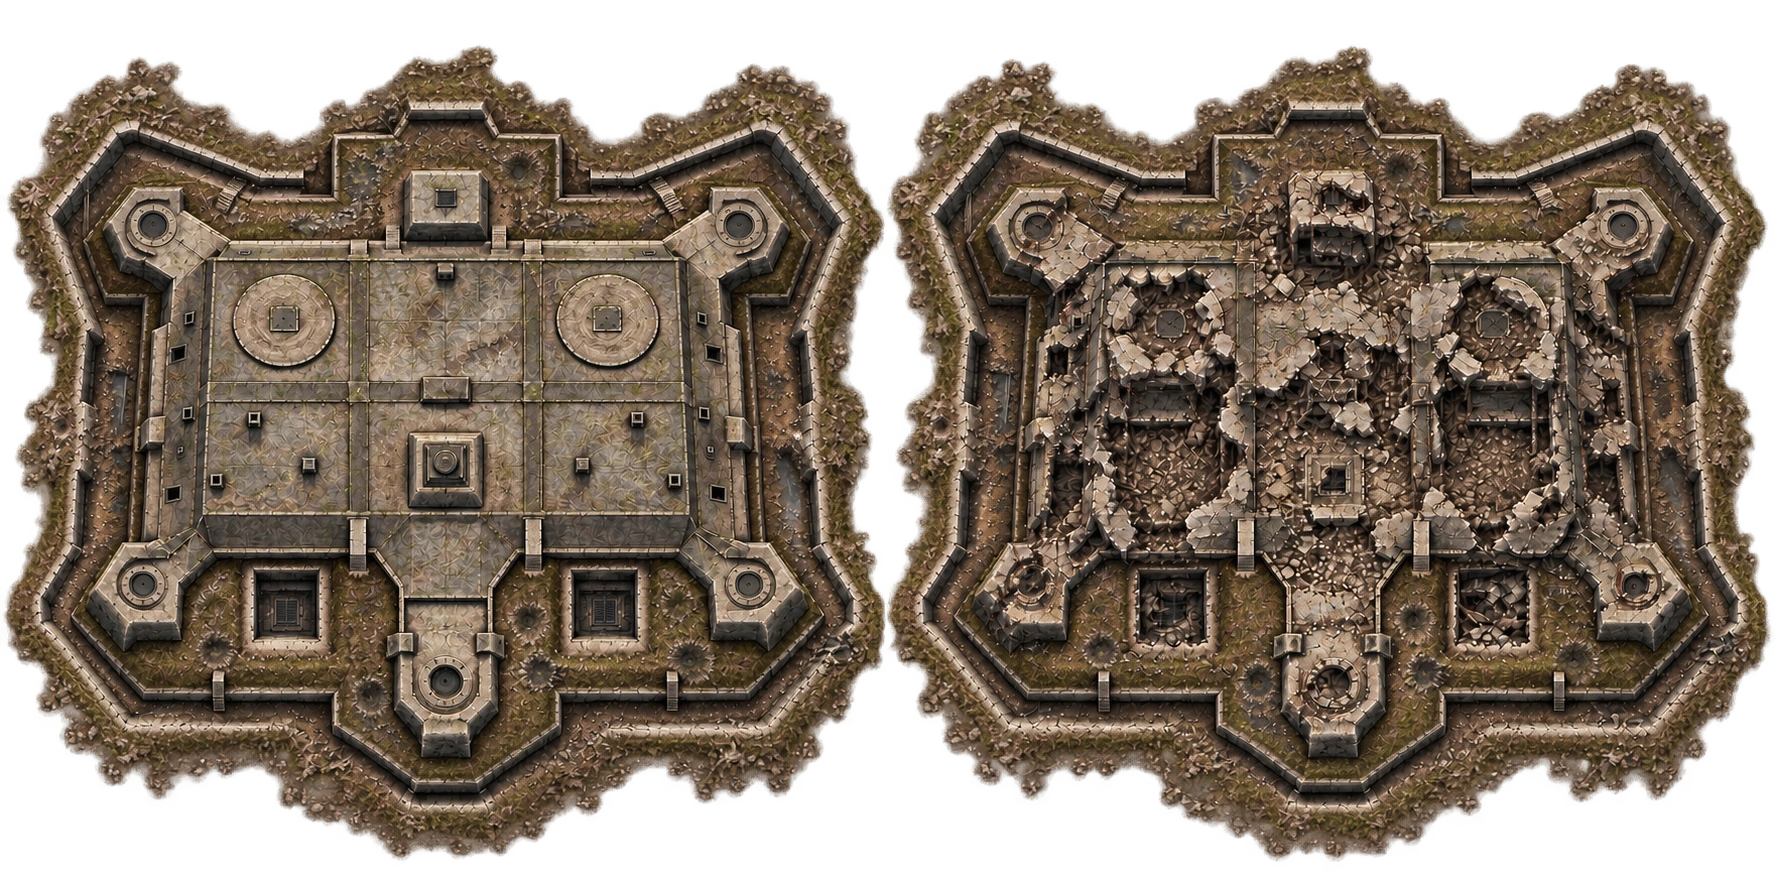
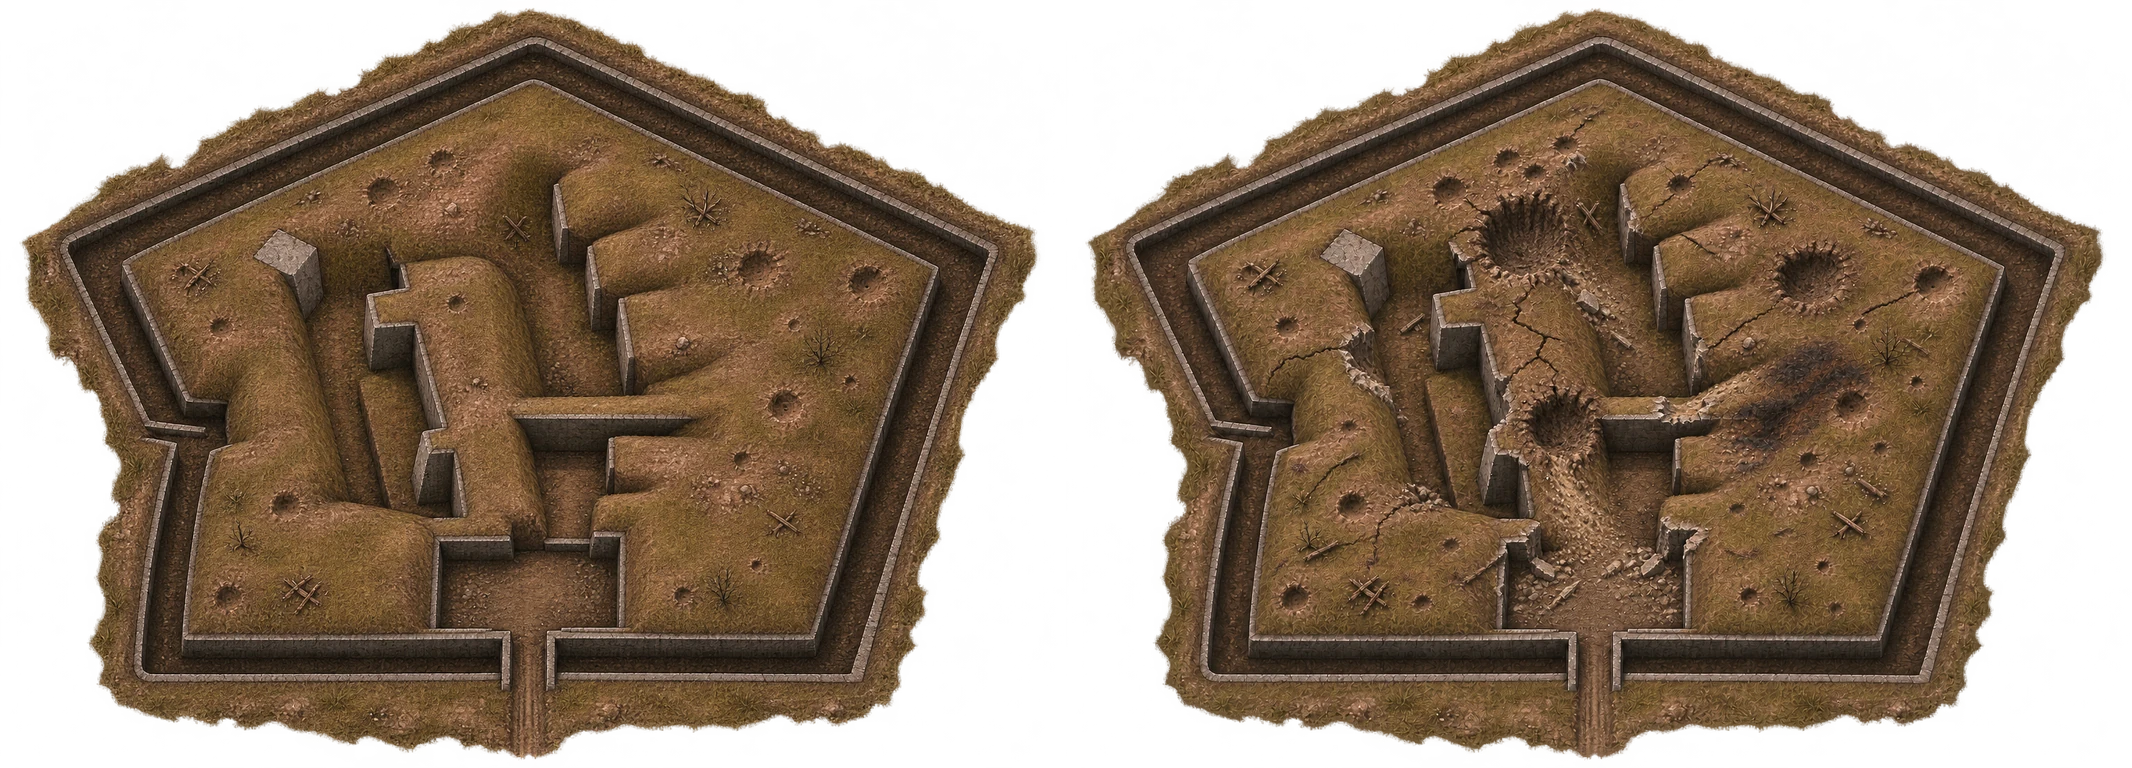
Preview Fort Douaumont rework (PR 679)

diff --git a/index.html b/index.html
@@ -1,4 +1,4 @@
-<!doctype html><html lang="ko"><head><script type="importmap">{"imports":{"/head-on-test-preview/alps-terrain117.js?v=quality-audit-596-c6ea4cf8-20261109":"/head-on-test-preview/alps-terrain117.js?v=burning-front-48624803-20261115","/head-on-test-preview/alps-terrain117.js":"/head-on-test-preview/alps-terrain117.js?v=burning-front-48624803-20261115","/head-on-test-preview/background-dressing.js?v=quality-audit-596-c6ea4cf8-20261109":"/head-on-test-preview/background-dressing.js?v=meadow-rail-e272e330-20261115","/head-on-test-preview/background-dressing.js":"/head-on-test-preview/background-dressing.js?v=meadow-rail-e272e330-20261115","/head-on-test-preview/rural-rail-ground.js?v=rail-exit-icon-c8bbf960-20261111":"/head-on-test-preview/rural-rail-ground.js?v=meadow-rail-e272e330-20261115","/head-on-test-preview/rural-rail-ground.js":"/head-on-test-preview/rural-rail-ground.js?v=meadow-rail-e272e330-20261115","/head-on-test-preview/rail-render129.js?v=rail-exit-icon-c8bbf960-20261111":"/head-on-test-preview/rail-render129.js?v=meadow-rail-e272e330-20261115","/head-on-test-preview/rail-render129.js":"/head-on-test-preview/rail-render129.js?v=meadow-rail-e272e330-20261115","/head-on-test-preview/app.js?v=pilot-sortie-9b529360-20261115":"/head-on-test-preview/app.js?v=pilot-sortie-9b529360-20261115"}}</script><meta charset="utf-8"><script src="boot-gate.js?v=earned-rewards-7ccfad1b-20261114"></script><script>fetch('version.txt',{cache:'no-store'}).then(r=>r.text()).then(v=>{if(v.trim()!=='pilot-sortie-9b529360-20261115'&&!sessionStorage.getItem('_vr')){sessionStorage.setItem('_vr','1');location.reload()}}).catch(()=>{});window.HEADON_COOP_RELAY='wss://headon-coop-relay.justzeon.workers.dev/coop'</script><meta name="viewport" content="width=device-width,initial-scale=1,viewport-fit=cover"><meta name="theme-color" content="#10171d"><title>HEAD-ON — 에이스의 하늘</title><link rel="icon" type="image/svg+xml" href="favicon.svg?v=gal1"><link rel="icon" type="image/png" sizes="32x32" href="favicon-32.png?v=gal1"><link rel="icon" type="image/png" sizes="64x64" href="favicon-64.png?v=gal1"><link rel="apple-touch-icon" href="favicon-180.png?v=gal1"><link rel="stylesheet" href="style.css?v=gal1"><link rel="stylesheet" href="interface58.css?v=gal1"><link rel="stylesheet" href="hangar69.css?v=gal1"><link rel="stylesheet" href="coop.css?v=gal1"><link rel="stylesheet" href="stageboss.css?v=gal1&hints=1"><link rel="stylesheet" href="result-names100.css"><link rel="stylesheet" href="./presentation129.css?v=gal1"><link rel="stylesheet" href="./mobile-ui142.css?v=gal1"><link rel="stylesheet" href="./reinforcement151.css?v=gal1"><link rel="stylesheet" href="./flight-polish156.css?v=gal1&front=a20261102"><link rel="stylesheet" href="./battlefield-event-ui.css?v=gal1"><link rel="stylesheet" href="./main-ui-v2.css?v=gal1&b=settings151"><link rel="stylesheet" href="./hangar-portrait186.css?v=gal1"><link rel="stylesheet" href="./hud-ww1-397.css?v=earned-rewards-7ccfad1b-20261114"><link rel="stylesheet" href="./hangar-ww1-403.css?v=gal1-set2&fit=20261110"><link rel="stylesheet" href="./skill-names.css?v=gal1&art=pilot-recovery2"><link rel="stylesheet" href="./ui-polish-410.css?v=choice-compact20261023d"><link rel="stylesheet" href="./lobby-420.css?v=lobby8&acecopy=2&resume=20261102&crew-floor=20261104&crew-scale=20261104"><link rel="stylesheet" href="online-coop.css?v=gal1&coop=1&cohud=2"><link rel="stylesheet" href="./settings-421.css?v=account-tab20261101&steady=20261110"><link rel="stylesheet" href="./boss-gate-422.css?v=g1"><link rel="stylesheet" href="./pilot-keyart.css?v=pilot-sortie-9b529360-20261115"><link rel="stylesheet" href="./ui-system-423.css?v=quality-audit-596-c6ea4cf8-20261109"><script>try{if(!/[?&]ui=0\b/.test(location.search))document.documentElement.classList.add("ui423")}catch(_){}</script></head><body class="astra-ui"><div id="bootSplash" aria-hidden="true"><b><i class="bl-h">HEAD</i><i class="bl-d">—</i><i class="bl-o">ON</i></b></div><script>window.HEADON_BOOT_ERROR=()=>{if(document.body.classList.contains('hangar-shown'))return;const splash=document.getElementById('bootSplash');if(!splash||document.getElementById('bootRetry'))return;splash.setAttribute('aria-hidden','false');const box=document.createElement('div');box.id='bootRetry';box.setAttribute('role','alert');box.style.cssText='position:absolute;left:20px;right:20px;bottom:15%;text-align:center;color:#e9e2ce;font:14px/1.6 Arial,sans-serif';const text=document.createElement('p');text.textContent=document.documentElement.lang==='en'?'The lobby is still loading. Please retry if this continues.':'로딩이 지연됐습니다.';const retry=document.createElement('button');retry.type='button';retry.textContent=document.documentElement.lang==='en'?'Retry':'다시 시도';retry.style.cssText='padding:12px 24px;border:1px solid #bdb69a;background:#171c1a;color:#e9e2ce;font:inherit';retry.onclick=()=>location.reload();box.append(text,retry);splash.append(box)};setTimeout(window.HEADON_BOOT_ERROR,90000)</script>
+<!doctype html><html lang="ko"><head><script type="importmap">{"imports":{"/head-on-test-preview/alps-terrain117.js?v=quality-audit-596-c6ea4cf8-20261109":"/head-on-test-preview/alps-terrain117.js?v=burning-front-48624803-20261115","/head-on-test-preview/alps-terrain117.js":"/head-on-test-preview/alps-terrain117.js?v=burning-front-48624803-20261115","/head-on-test-preview/background-dressing.js?v=quality-audit-596-c6ea4cf8-20261109":"/head-on-test-preview/background-dressing.js?v=meadow-rail-e272e330-20261115","/head-on-test-preview/background-dressing.js":"/head-on-test-preview/background-dressing.js?v=meadow-rail-e272e330-20261115","/head-on-test-preview/rural-rail-ground.js?v=rail-exit-icon-c8bbf960-20261111":"/head-on-test-preview/rural-rail-ground.js?v=meadow-rail-e272e330-20261115","/head-on-test-preview/rural-rail-ground.js":"/head-on-test-preview/rural-rail-ground.js?v=meadow-rail-e272e330-20261115","/head-on-test-preview/rail-render129.js?v=rail-exit-icon-c8bbf960-20261111":"/head-on-test-preview/rail-render129.js?v=meadow-rail-e272e330-20261115","/head-on-test-preview/rail-render129.js":"/head-on-test-preview/rail-render129.js?v=meadow-rail-e272e330-20261115","/head-on-test-preview/app.js?v=pilot-sortie-9b529360-20261115":"/head-on-test-preview/app.js?v=pilot-sortie-9b529360-20261115","/head-on-test-preview/verdun-art.js":"/head-on-test-preview/verdun-art.js?v=douaumont1916","/head-on-test-preview/verdun-fortresses.js":"/head-on-test-preview/verdun-fortresses.js?v=douaumont1916","/head-on-test-preview/boss-cutin-art.js":"/head-on-test-preview/boss-cutin-art.js?v=douaumont1916","/head-on-test-preview/boss-cutin-art.js?v=late-open-prs-5900a138-20261113":"/head-on-test-preview/boss-cutin-art.js?v=douaumont1916","/head-on-test-preview/verdun-art.js?v=late-open-prs-5900a138-20261113":"/head-on-test-preview/verdun-art.js?v=douaumont1916","/head-on-test-preview/verdun-fortresses.js?v=late-open-prs-5900a138-20261113":"/head-on-test-preview/verdun-fortresses.js?v=douaumont1916","/head-on-test-preview/verdun-fortresses.js?v=gal1&rail=42&ai=1018&sig=1019&boss=20261020b&phase=1021":"/head-on-test-preview/verdun-fortresses.js?v=douaumont1916"}}</script><meta charset="utf-8"><script src="boot-gate.js?v=earned-rewards-7ccfad1b-20261114"></script><script>fetch('version.txt',{cache:'no-store'}).then(r=>r.text()).then(v=>{if(v.trim()!=='pilot-sortie-9b529360-20261115'&&!sessionStorage.getItem('_vr')){sessionStorage.setItem('_vr','1');location.reload()}}).catch(()=>{});window.HEADON_COOP_RELAY='wss://headon-coop-relay.justzeon.workers.dev/coop'</script><meta name="viewport" content="width=device-width,initial-scale=1,viewport-fit=cover"><meta name="theme-color" content="#10171d"><title>HEAD-ON — 에이스의 하늘</title><link rel="icon" type="image/svg+xml" href="favicon.svg?v=gal1"><link rel="icon" type="image/png" sizes="32x32" href="favicon-32.png?v=gal1"><link rel="icon" type="image/png" sizes="64x64" href="favicon-64.png?v=gal1"><link rel="apple-touch-icon" href="favicon-180.png?v=gal1"><link rel="stylesheet" href="style.css?v=gal1"><link rel="stylesheet" href="interface58.css?v=gal1"><link rel="stylesheet" href="hangar69.css?v=gal1"><link rel="stylesheet" href="coop.css?v=gal1"><link rel="stylesheet" href="stageboss.css?v=gal1&hints=1"><link rel="stylesheet" href="result-names100.css"><link rel="stylesheet" href="./presentation129.css?v=gal1"><link rel="stylesheet" href="./mobile-ui142.css?v=gal1"><link rel="stylesheet" href="./reinforcement151.css?v=gal1"><link rel="stylesheet" href="./flight-polish156.css?v=gal1&front=a20261102"><link rel="stylesheet" href="./battlefield-event-ui.css?v=gal1"><link rel="stylesheet" href="./main-ui-v2.css?v=gal1&b=settings151"><link rel="stylesheet" href="./hangar-portrait186.css?v=gal1"><link rel="stylesheet" href="./hud-ww1-397.css?v=earned-rewards-7ccfad1b-20261114"><link rel="stylesheet" href="./hangar-ww1-403.css?v=gal1-set2&fit=20261110"><link rel="stylesheet" href="./skill-names.css?v=gal1&art=pilot-recovery2"><link rel="stylesheet" href="./ui-polish-410.css?v=choice-compact20261023d"><link rel="stylesheet" href="./lobby-420.css?v=lobby8&acecopy=2&resume=20261102&crew-floor=20261104&crew-scale=20261104"><link rel="stylesheet" href="online-coop.css?v=gal1&coop=1&cohud=2"><link rel="stylesheet" href="./settings-421.css?v=account-tab20261101&steady=20261110"><link rel="stylesheet" href="./boss-gate-422.css?v=g1"><link rel="stylesheet" href="./pilot-keyart.css?v=pilot-sortie-9b529360-20261115"><link rel="stylesheet" href="./ui-system-423.css?v=quality-audit-596-c6ea4cf8-20261109"><script>try{if(!/[?&]ui=0\b/.test(location.search))document.documentElement.classList.add("ui423")}catch(_){}</script></head><body class="astra-ui"><div id="bootSplash" aria-hidden="true"><b><i class="bl-h">HEAD</i><i class="bl-d">—</i><i class="bl-o">ON</i></b></div><script>window.HEADON_BOOT_ERROR=()=>{if(document.body.classList.contains('hangar-shown'))return;const splash=document.getElementById('bootSplash');if(!splash||document.getElementById('bootRetry'))return;splash.setAttribute('aria-hidden','false');const box=document.createElement('div');box.id='bootRetry';box.setAttribute('role','alert');box.style.cssText='position:absolute;left:20px;right:20px;bottom:15%;text-align:center;color:#e9e2ce;font:14px/1.6 Arial,sans-serif';const text=document.createElement('p');text.textContent=document.documentElement.lang==='en'?'The lobby is still loading. Please retry if this continues.':'로딩이 지연됐습니다.';const retry=document.createElement('button');retry.type='button';retry.textContent=document.documentElement.lang==='en'?'Retry':'다시 시도';retry.style.cssText='padding:12px 24px;border:1px solid #bdb69a;background:#171c1a;color:#e9e2ce;font:inherit';retry.onclick=()=>location.reload();box.append(text,retry);splash.append(box)};setTimeout(window.HEADON_BOOT_ERROR,90000)</script>
 
 <header><a class="brand" href="./"><span class="brand-mark" aria-label="HEAD-ON"><span class="wordmark" aria-hidden="true">HEAD<span class="logo-dash">—</span><span class="sight-o"><i></i></span>N</span></span> <span class="edition">에이스의 하늘</span></a><div class="header-right"><span class="campaign">FLIGHT OPERATIONS / WWI</span><label for="localeSelect"><span class="sr-only" data-i18n="language.label">언어</span><select id="localeSelect" aria-label="언어"><option value="ko">KO</option><option value="en">EN</option></select></label><button id="sound" class="quiet" aria-label="소리 끄기">소리 ON</button><button id="help" class="quiet">조작법</button></div></header>
 <main><section class="field"><div class="field-top"><span><i></i> <b id="missionLabel">출격 대기</b></span><span id="record">최고 기록 000</span></div><div class="viewport" id="viewport"><canvas id="game" aria-label="공중전 전장. 방향키 또는 WASD로 조종, Space로 선회 기동, E로 액티브, P로 일시정지"></canvas><div class="vignette"></div><section id="stageBossHud" class="hidden" role="progressbar" aria-label="지역 보스 내구도" aria-valuemin="0"><span id="stageBossTitle"></span><span id="stageBossParts"></span><div class="bar"><i id="stageBossHp"></i></div></section><div id="coopXpHud" class="hidden"><div><span id="p1XpLabel"></span><div class="bar"><i id="p1XpBar"></i></div></div><div><span id="p2XpLabel"></span><div class="bar"><i id="p2XpBar"></i></div></div></div><div id="coopP2" class="hidden"><small>P2</small><div class="bar"><i id="coopP2Hp"></i></div><b id="coopP2Text">0</b></div><div id="coopHud" class="coop-hud hidden"><section class="coop-instrument p1"><strong id="p1HudName"></strong><canvas id="p1Gun113" class="coop-gun113" width="72" height="44"></canvas><div id="p1HudStats" style="white-space:pre-line"></div><div class="bar"><i id="p1HpBar"></i></div><div id="p1Relics" class="relics" aria-label="P1 특수장비"></div></section><div class="coop-team"><b id="coopClock">00:00</b><span id="coopKills">주요 0기</span><br><small id="coopBest"></small><br><button id="coopPause" type="button">Ⅱ Esc</button></div><section class="coop-instrument p2"><strong id="p2HudName"></strong><canvas id="p2Gun113" class="coop-gun113" width="72" height="44"></canvas><div id="p2HudStats" style="white-space:pre-line"></div><div class="bar"><i id="p2HpBar"></i></div><div id="p2Relics" class="relics" aria-label="P2 특수장비"></div></section></div><div id="coopCutins" class="coop-cutins hidden"><div id="p1Cutin" class="skill-cutin coop-cutin hidden"><div id="p1CutinPortrait" class="cutin-portrait" aria-hidden="true"></div><div class="cutin-caption"><small id="p1CutinName"></small><strong id="p1CutinSkill"></strong></div></div><div id="p2Cutin" class="skill-cutin coop-cutin p2 hidden"><div id="p2CutinPortrait" class="cutin-portrait" aria-hidden="true"></div><div class="cutin-caption"><small id="p2CutinName"></small><strong id="p2CutinSkill"></strong></div></div></div><div id="hud" class="hud hidden"><div><small>HP</small><b id="healthText">100 / 100</b><div class="bar"><i id="healthBar"></i></div></div><div class="time"><b id="clock">00:00</b><small>랭킹전</small></div></div><div id="xpHud" class="xp-hud hidden"><span id="level">LV. 1</span><div class="bar"><i id="xpBar"></i></div><button id="pause" class="quiet">Ⅱ</button></div>

diff --git a/verdun-art.js b/verdun-art.js
@@ -8,7 +8,7 @@ import {VERDUN_PART_FRAMES,VERDUN_BODY_GRID} from './verdun-art-layout.js?v=tame
 import {VERDUN_FORT_LAYOUT,VERDUN_FORT_ENLARGEMENT,verdunFortCollapseSites} from './verdun-fortresses.js?v=gal1&rail=42&ai=1018&sig=1019&boss=20261020b&phase=1021';
 
 // Authored atlas frames keep measured pivots; component transition canvases are reused.
-const sources={map:'./terrain-verdun-r8.webp?v=r5',douaumont:'./boss-douaumont-atlas-r8.webp?v=r5',souville:'./boss-souville-atlas-r8.webp?v=r5',douaumontParts:'./boss-douaumont-parts-r8.webp?v=r5',souvilleParts:'./boss-souville-parts-r8.webp?v=r5'};
+const sources={map:'./terrain-verdun-r8.webp?v=r5',douaumont:'./boss-douaumont-atlas-r8.webp?v=douaumont1916',souville:'./boss-souville-atlas-r8.webp?v=r5',douaumontParts:'./boss-douaumont-parts-r8.webp?v=douaumont1916',souvilleParts:'./boss-souville-parts-r8.webp?v=r5'};
 const images={},pending={};
 function load(key){if(images[key])return images[key];const im=new Image();im.decoding='async';pending[key]=new Promise((resolve,reject)=>{im.onload=()=>{(im.decode?im.decode():Promise.resolve()).catch(()=>{}).finally(()=>resolve(im))};im.onerror=()=>reject(new Error('Missing Verdun asset: '+sources[key]));});im.src=sources[key];images[key]=im;return im;}
 export function prepareVerdunAssets(){for(const key of Object.keys(sources))load(key);return Promise.all(Object.values(pending)).then(result=>{prepareVerdunGround(images.map);return result;});}
@@ -70,8 +70,12 @@ export function drawVerdunFort(c,b,destruction={}){
   const structuralFall=collapsed||b.dead&&fallen.has(p.id),dead=structuralFall||p.destroyed,damaged=p.hp<p.maxHp*.55;
   const artSou=sou&&p.kind!=='aa',artKey=artSou?'souville':'douaumont',partImage=p.kind==='aa'&&sou?load('douaumontParts'):parts;
   const gun=!!VERDUN_PART_FRAMES[artKey].guns[p.art];
+  const cupola=!sou&&(p.kind==='heavy'||p.kind==='mg');
   const opens=['pit','ammo','core'].includes(p.art);
   const state=artSou?(dead?3:damaged?2:opens&&p.revealed?1:0):(dead?2:damaged?1:0);
+  // The fixed iron dome occludes the rotating receiver. Only the short
+  // muzzle beyond its edge remains visible when the turret fires.
+  if(cupola&&!dead)drawWeapon(c,partImage,p.art,damaged?1:0,p.x,p.y,p.muzzleLength,p.angle,false,(p.recoil||0)*24*scale);
   // Souville's intact casemates and AA foundations belong to the connected
   // authored hull. Overlay independent foundations only for state changes.
   if(p.kind==='pit'&&!dead){
@@ -80,7 +84,7 @@ export function drawVerdunFort(c,b,destruction={}){
    const blend=structuralFall?1:dead?(p.repairBlend>0?1-p.repairBlend:p.damageBlend??1):damaged?p.damageBlend??1:1;
    drawVerdunMount(c,partImage,p.art,state,p,gun,artSou,blend,artSou&&opens&&p.revealed?1:0);
   }
-  if(gun&&(p.kind!=='pit'||p.active)&&(dead||p.revealed||p.openAmount>0||!sou)){
+  if(gun&&!cupola&&(p.kind!=='pit'||p.active)&&(dead||p.revealed||p.openAmount>0||!sou)){
    c.save();if(p.kind==='pit'&&!dead)c.globalAlpha*=p.openAmount??1;
    const gunState=artSou?(dead?1:0):(dead?2:damaged?1:0);
    const wreckBlend=structuralFall?1:dead?(p.repairBlend>0?1-p.repairBlend:p.damageBlend??1):1;
@@ -93,7 +97,7 @@ export function drawVerdunFort(c,b,destruction={}){
   if(dead&&!(p.repairRemaining>0&&p.repairRemaining<3)){fx(c,'smokeDark',p.x+4*scale,p.y-15*scale,40*scale,60*scale,0,.18);fx(c,'fire',p.x,p.y,18*scale,24*scale,0,.45);}
  }
  const core=b.regionalCore,coreState=sou?(collapsed?3:b.coreVulnerable?1:0):(collapsed?2:b.coreVulnerable?1:0);
- if(!sou||collapsed||b.coreVulnerable)drawMount(c,parts,'core',coreState,core.x,core.y,132*artScale,116*artScale,sou);
+ if(!sou||collapsed||b.coreVulnerable)drawMount(c,parts,'core',coreState,core.x,core.y,(sou?132:110)*artScale,(sou?116:78)*artScale,sou);
  c.restore();
 }
 export function drawVerdunHazard(c,h){

diff --git a/verdun-fortresses.js b/verdun-fortresses.js
@@ -10,16 +10,18 @@ export const VERDUN_AA_REPAIR_SECONDS=18;
 const size=v=>v*VERDUN_FORT_ENLARGEMENT;
 const freezeParts=parts=>Object.freeze(parts.map(p=>Object.freeze({...p,...Object.fromEntries(['x','y','w','h','rx','ry','muzzle'].map(k=>[k,size(p[k])]))})));
 export const VERDUN_FORT_LAYOUT=Object.freeze({
- 'fort-douaumont':Object.freeze({width:size(820),height:size(590),core:Object.freeze({x:0,y:size(10),rx:size(65),ry:size(58)}),parts:freezeParts([
-  {id:'heavy-left',x:-154,y:-87,w:146,h:164,rx:56,ry:58,fraction:.12,muzzle:103,art:'heavy',kind:'heavy'},
-  {id:'heavy-right',x:154,y:-87,w:146,h:164,rx:56,ry:58,fraction:.12,muzzle:103,art:'heavy',kind:'heavy'},
-  {id:'control',x:0,y:-156,w:112,h:90,rx:43,ry:33,fraction:.07,muzzle:0,art:'control',kind:'control'},
-  {id:'mg-left',x:-285,y:95,w:92,h:84,rx:33,ry:28,fraction:.06,muzzle:41,art:'mg',kind:'mg'},
-  {id:'mg-right',x:285,y:95,w:92,h:84,rx:33,ry:28,fraction:.06,muzzle:41,art:'mg',kind:'mg'},
-  {id:'aa-left',x:-276,y:-149,w:100,h:102,rx:36,ry:34,fraction:.06,muzzle:43,art:'aa',kind:'aa'},
-  {id:'aa-right',x:275,y:-149,w:100,h:102,rx:36,ry:34,fraction:.06,muzzle:43,art:'aa',kind:'aa'},
-  {id:'ammo-left',x:-154,y:110,w:132,h:100,rx:48,ry:35,fraction:.07,muzzle:0,art:'ammo',kind:'ammo',locked:true},
-  {id:'ammo-right',x:154,y:110,w:132,h:100,rx:48,ry:35,fraction:.07,muzzle:0,art:'ammo',kind:'ammo',locked:true}
+ // The historical upper works put the 75 mm turret north of the barracks
+ // and the 155 mm turret on the east flank. Keep the existing battery IDs.
+ 'fort-douaumont':Object.freeze({width:size(820),height:size(590),core:Object.freeze({x:0,y:size(153),rx:size(48),ry:size(34)}),parts:freezeParts([
+  {id:'heavy-left',x:-42,y:-139,w:100,h:76,rx:34,ry:34,fraction:.12,muzzle:41,art:'heavy',kind:'heavy'},
+  {id:'heavy-right',x:204,y:-1,w:118,h:90,rx:40,ry:40,fraction:.12,muzzle:48,art:'heavy',kind:'heavy'},
+  {id:'control',x:-150,y:-135,w:64,h:55,rx:28,ry:25,fraction:.07,muzzle:0,art:'control',kind:'control'},
+  {id:'mg-left',x:-227,y:-27,w:76,h:58,rx:26,ry:26,fraction:.06,muzzle:31,art:'mg',kind:'mg'},
+  {id:'mg-right',x:215,y:-82,w:76,h:58,rx:26,ry:26,fraction:.06,muzzle:31,art:'mg',kind:'mg'},
+  {id:'aa-left',x:-231,y:121,w:83,h:65,rx:32,ry:30,fraction:.06,muzzle:38,art:'aa',kind:'aa'},
+  {id:'aa-right',x:205,y:128,w:83,h:65,rx:32,ry:30,fraction:.06,muzzle:38,art:'aa',kind:'aa'},
+  {id:'ammo-left',x:-141,y:142,w:91,h:64,rx:43,ry:29,fraction:.07,muzzle:0,art:'ammo',kind:'ammo',locked:true},
+  {id:'ammo-right',x:120,y:138,w:91,h:64,rx:43,ry:29,fraction:.07,muzzle:0,art:'ammo',kind:'ammo',locked:true}
  ])}),
  'fort-souville':Object.freeze({width:size(900),height:size(540),core:Object.freeze({x:0,y:size(162),rx:size(72),ry:size(54)}),parts:freezeParts([
   {id:'bunker-left',x:-333,y:61,w:148,h:118,rx:58,ry:42,fraction:.08,muzzle:57,art:'bunker',kind:'bunker'},

diff --git a/boss-cutin-art.js b/boss-cutin-art.js
@@ -11,7 +11,7 @@ export const REDRAWN_BOSS_CUTINS=Object.freeze({
   "mark4-wedge": "cutin-mark1-landships.webp",
   "morser-battery": "cutin-schwaben-fortress.webp",
   "gotha-squadron": "cutin-gotha-squadron.webp",
-  "fort-douaumont": "cutin-douaumont.webp",
+  "fort-douaumont": "cutin-douaumont-1916.webp",
   "fort-souville": "cutin-souville.webp",
   "wustenpanzer": "cutin-wustenpanzer.webp",
   "sinai-landship": "cutin-sinai-landship.webp",
